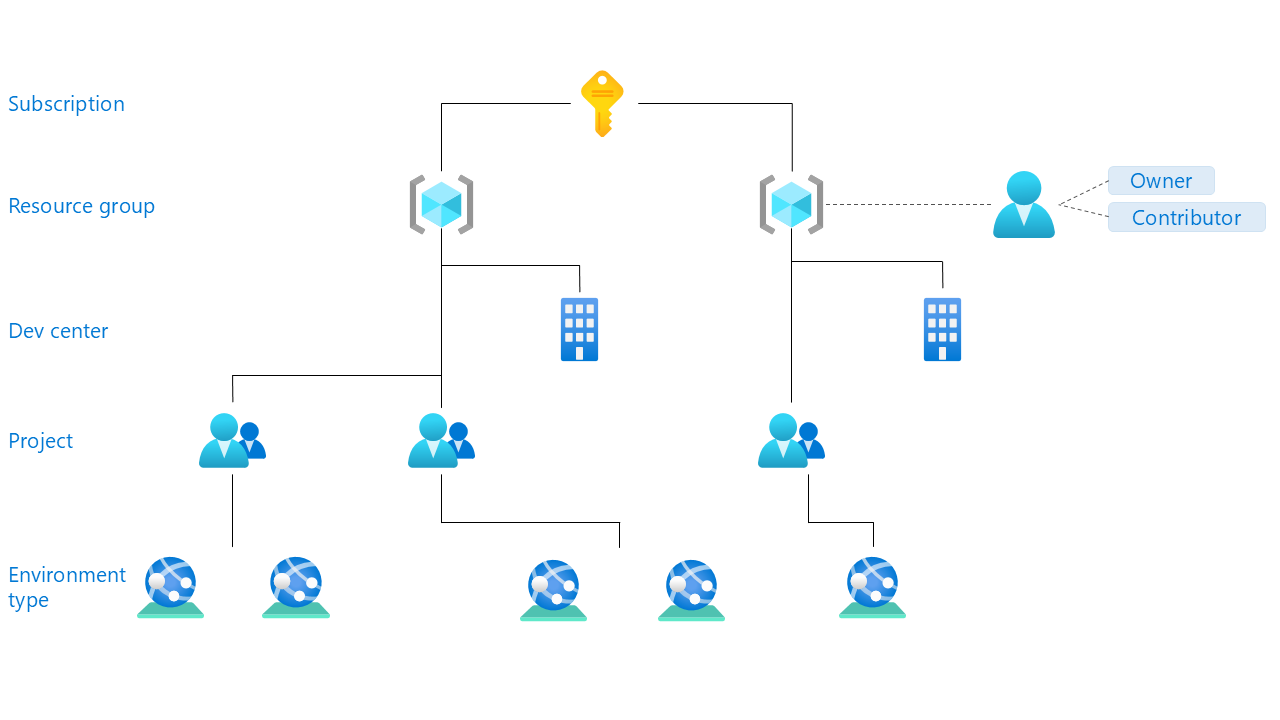
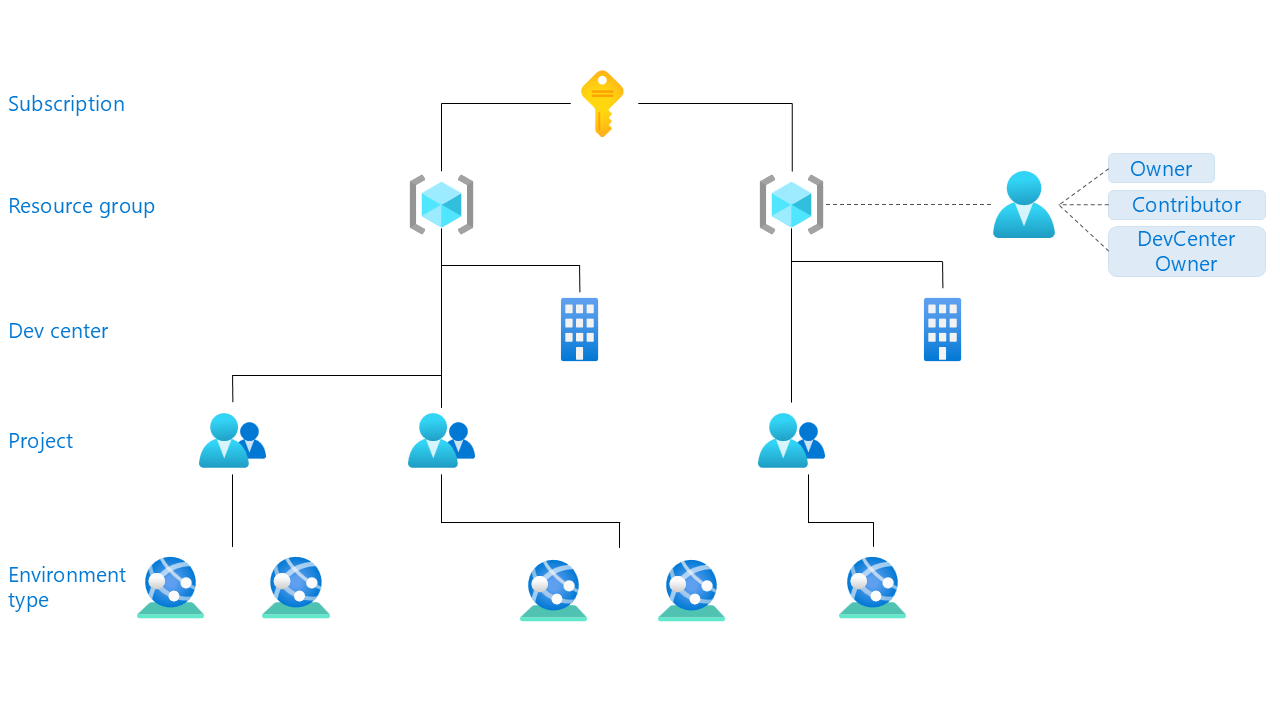
ADE - Add DevCenter Owner role

Changed region(s): [[0.8438, 0.2139, 1.0, 0.3972]]

diff --git a/articles/deployment-environments/concept-deployment-environments-role-based-access-control.md b/articles/deployment-environments/concept-deployment-environments-role-based-access-control.md
@@ -35,6 +35,7 @@ The following are the built-in roles supported by Azure Deployment Environments:
 |---|---|---|
 | Platform engineer | Owner | Grant full control to create/manage dev centers, catalogs, and projects, and grant permissions to other users. Learn more about the [Owner role](#owner-role). |
 | Platform engineer | Contributor | Grant full control to create/manage dev centers, catalogs, and projects, except for assigning roles to other users. Learn more about the [Contributor role](#contributor-role). |
+| Platform engineer | DevCenter Owner | Provides access to manage all Microsoft.DevCenter resources for a dev center (including dev centers that host Azure Deployment Environments and Dev Box projects), and to manage access to those resources by adding or removing role assignments for the DevCenter Project Admin and DevCenter Dev Box roles. Learn more about the [DevCenter Owner role](../dev-box/how-to-manage-dev-center.md#assign-dev-center-permissions-to-users). |
 | Dev Manager | DevCenter Project Admin | Grant permission to manage certain aspects of projects and environments. Learn more about the [DevCenter Project Admin role](#devcenter-project-admin-role). |
 | Developer | Deployment Environments Reader | Grant permission to view all environments in a project. Learn more about the [Deployment Environments Reader role](#deployment-environments-reader). |
 | Developer | Deployment Environments User | Grant permission to create environments and have full control over the environments that they create. Learn more about the [Deployment Environments User role](#deployment-environments-user). |
@@ -68,6 +69,7 @@ The following table shows common Deployment Environments activities and the role
 | Grant permission to create environment types in a project. | Platform engineer | [Custom role](/azure/role-based-access-control/custom-roles-portal): Microsoft.Authorization/roleAssignments/write </br></br> Owner, Contributor, or Project Admin | Subscription </br></br></br> Project|
 | Grant permission to assign roles to other users. | Platform engineer | Owner | Resource group |
 | Grant permission to: </br>- Create / manage dev centers and projects.</br>- Attach / detach catalog to a dev center or project.| Platform engineer | Owner, Contributor | Resource group |
+| Grant permission to manage a specific dev center and its Microsoft.DevCenter resources, including assigning DevCenter Project Admin and DevCenter Dev Box roles. | Platform engineer | DevCenter Owner | Dev center |
 | Grant permission to enable / disable project catalogs. | Dev Manager | Owner, Contributor | Dev center |
 | Grant permission to create and manage all environments in a project. </br>- Add, sync, remove catalog (project-level catalogs must be enabled on the dev center).</br>- Configure expiry date and time to trigger automatic deletion.</br>- Update & delete environment types.</br>- Delete environments.| Dev Manager | DevCenter Project Admin | Project |
 | View all environments in a project. | Dev Manager | Deployment Environments Reader | Project |
@@ -79,7 +81,7 @@ The following table shows common Deployment Environments activities and the role
 
 ## Platform engineer roles
 
-To grant users permission to manage Azure Deployment Environments within your organization's subscription, you should assign them the [Owner](#) or [Contributor](#) role.
+To grant users permission to manage Azure Deployment Environments within your organization's subscription, you should assign them the [Owner](#owner-role) or [Contributor](#contributor-role) role at the subscription or resource group scope, or the DevCenter Owner role at the dev center scope.
 
 Assign these roles to the *resource group*. The dev center and projects within the resource group inherit these role assignments. Environment types inherit role assignments through projects.
 
@@ -102,6 +104,20 @@ Assign the Owner role to give a user full control to create or manage dev center
 Assign the Contributor role to give a user full control to create or manage dev centers and projects within a resource group. The Contributor role has the same permissions as the Owner role, *except* for:
 
 - Performing role assignments
+
+### DevCenter Owner role
+
+Use the DevCenter Owner role when you want to delegate administration for a specific dev center without granting Owner or Contributor on the entire resource group or subscription.
+
+DevCenter Owner includes:
+
+- Full management of Microsoft.DevCenter resources for that dev center (such as dev centers, projects, and catalogs).
+- Read access to role definitions and role assignments related to those resources.
+- The ability to create and delete role assignments for the DevCenter Project Admin and DevCenter Dev Box roles on Microsoft.DevCenter resources.
+
+DevCenter Owner can't grant arbitrary Azure roles; its role-assignment permissions are limited to these two dev center-specific roles.
+
+For more details about DevCenter Owner and other dev center roles, see [Manage a dev center for Dev Box](../dev-box/how-to-manage-dev-center.md#assign-dev-center-permissions-to-users).
 
 ### Custom role
 

diff --git a/articles/deployment-environments/how-to-manage-deployment-environments-access.md b/articles/deployment-environments/how-to-manage-deployment-environments-access.md
@@ -23,6 +23,9 @@ The following built-in roles are commonly used with Azure Deployment Environment
 | **Deployment Environments User** | Allows users to create, start, stop, and manage their own environments within a project. Intended for developers who need to provision and work with environments. |
 | **Deployment Environments Reader** | Read-only access to environment and project resources. Use this role to grant users or service principals visibility into environments without modification rights. |
 
+> [!NOTE]
+> To delegate administration of a dev center that hosts your Deployment Environments projects, you can use the DevCenter Owner role at the dev center scope. DevCenter Owner can manage Microsoft.DevCenter resources for that dev center and manage access to those resources by assigning or removing the DevCenter Project Admin and DevCenter Dev Box roles. For details about dev center permissions, see [Manage a dev center for Dev Box](../dev-box/how-to-manage-dev-center.md#assign-dev-center-permissions-to-users).
+
 You can create multiple projects that are associated with your dev center to align with each team's requirements. By using the built-in DevCenter Project Admin role, you can delegate project administration to a member of a team. DevCenter Project Admin users can configure project environment types to enable developers to create various types of environments. They can also apply settings to each environment type.
 
 ## Prerequisites

diff --git a/articles/deployment-environments/concept-environments-key-concepts.md b/articles/deployment-environments/concept-environments-key-concepts.md
@@ -80,11 +80,14 @@ An environment definition is a combination of an IaC template and an environment
 
 ## Built-in roles
 
-Deployment Environments supports three [built-in roles](../role-based-access-control/built-in-roles.md):
+Deployment Environments uses the following [built-in roles](../role-based-access-control/built-in-roles.md):
 
+- **DevCenter Owner**. Manages Microsoft.DevCenter resources at the dev center scope (such as dev centers and their projects and catalogs), and can manage access to those resources by assigning or removing the DevCenter Project Admin and DevCenter Dev Box roles.
 - **DevCenter Project Admin**. Creates environments and manages the environment types for a project.
 - **Deployment Environments User**. Creates environments based on appropriate access.
-- **Deployment Environments Reader**. Reads environments that other users create. 
+- **Deployment Environments Reader**. Reads environments that other users create.
+
+For more information about DevCenter Owner and other dev center roles, see [Manage a dev center for Dev Box](../dev-box/how-to-manage-dev-center.md#assign-dev-center-permissions-to-users).
 
 ## Resources shared with Dev Box
 
